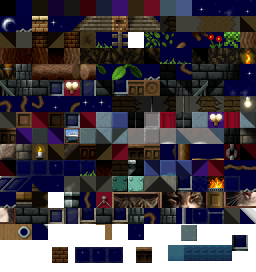
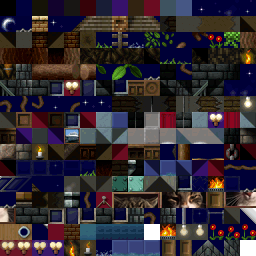
FEAT: multiple tileset support for custom maps (1x and 2x).

diff --git a/TILED_MAP_CREATION.md b/TILED_MAP_CREATION.md
@@ -981,6 +981,36 @@ When a player loads a pack that contains a JSWC tiles entry, the game registers 
 tileset style and switches to it automatically. See `docs/formats/JSWC_TILESET_COLLECTION_FORMAT.md`
 for the full binary format specification.
 
+### High-Resolution Tilesets (`_2x` Variants)
+
+You can provide high-resolution (16x16 pixel) tile variants alongside base (8x8) tiles. The
+packing scripts automatically detect and bundle them.
+
+Place `_2x` PNG files next to the base files:
+
+```
+tiles_solid.png       (8x8 tiles — base)
+tiles_solid_2x.png    (16x16 tiles — high-res variant)
+tiles_stairs.png
+tiles_stairs_2x.png
+... (same for platform, hazard, decoration, conveyor)
+```
+
+The `_2x` PNGs must use the same 16-column tilesheet layout as the base, with tile counts
+equal to or greater than the base. Run the pack command as usual — it detects `_2x` files
+and creates a second JSWC collection:
+
+```
+my-map.jsw (JSWP)
+├── rooms (room data)
+├── tiles (JSWC — 8x8 base tiles)
+└── tiles_2x (JSWC — 16x16 hi-res tiles, only if _2x files found)
+```
+
+At runtime, players cycle between base and hi-res styles with F9. The hi-res style appears
+as `"{TilesetName} (2x)"` (e.g. "Gorgeous (2x)"). If some tileset types lack a `_2x`
+variant, those types fall back to the base resolution when the 2x style is active.
+
 ### Example: The JSW Gorgeous Pipeline
 
 The "Gorgeous" tileset demonstrates the full custom tileset workflow. It starts from a
